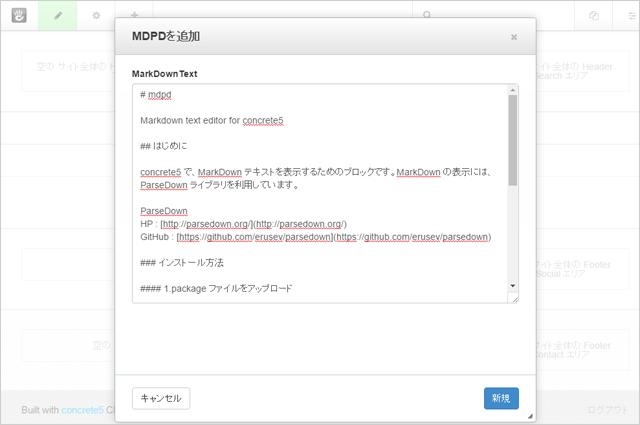
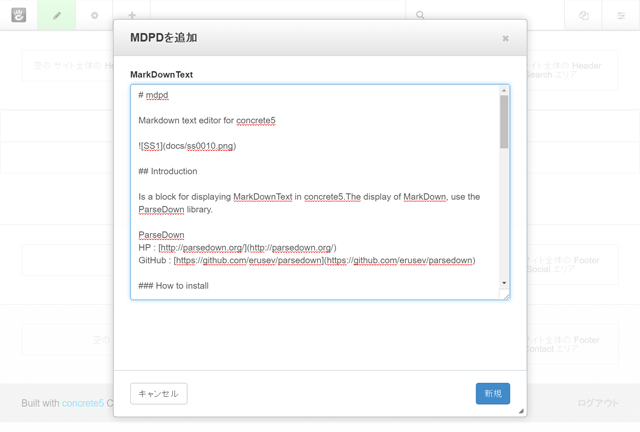
update README.MD

diff --git a/README.md b/README.md
@@ -2,6 +2,35 @@
 
 Markdown text editor for concrete5
 
+![SS1](docs/ss0010e.png)
+
+## Introduction
+
+Is a block for displaying MarkDownText in concrete5.The display of MarkDown, use the ParseDown library.
+
+ParseDown  
+HP : [http://parsedown.org/](http://parsedown.org/)  
+GitHub : [https://github.com/erusev/parsedown](https://github.com/erusev/parsedown)  
+
+### How to install
+
+#### 1.Upload package files.
+
+Upload the downloaded file to the '/packages' folder of concrete5.
+
+#### 2.Install the package.
+
+The installation waiting , you can see the MDPD. Please install and click Install.
+
+![SS1](docs/ss0020e.png)
+#### 3.Completion of installation.
+
+When the installation is successful , it will be displayed on the installed.Now available.
+
+![SS1](docs/ss0030e.png)
+
+----
+
 ![SS1](docs/ss0010.png)
 
 ## はじめに
